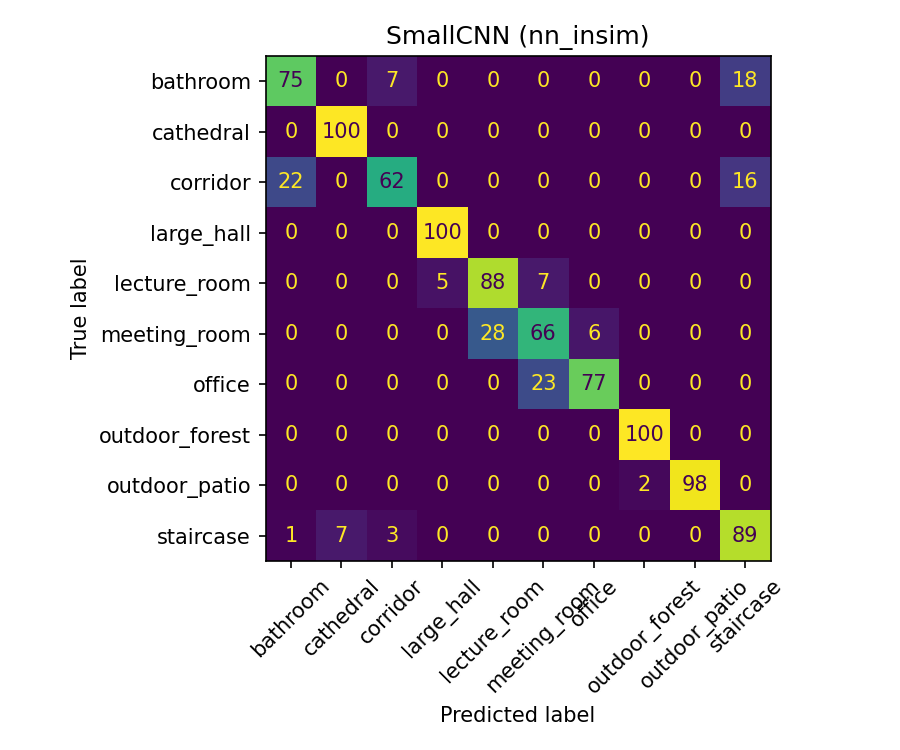
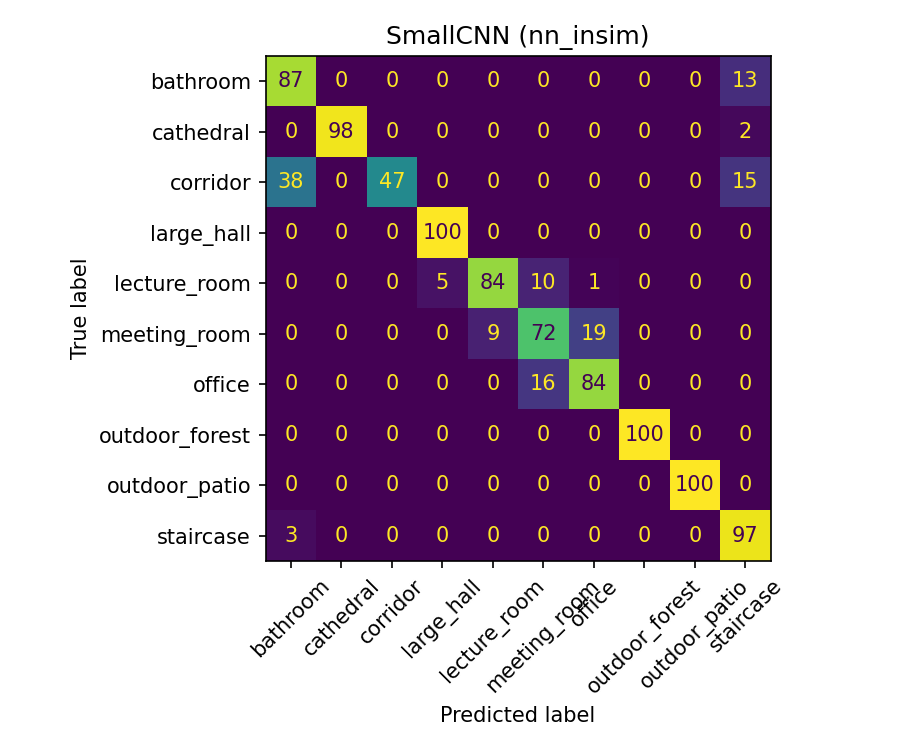
results for smallNN

diff --git a/notes.md b/notes.md
@@ -329,3 +329,44 @@ Conclusion for the report: 18 rooms is the practical ceiling of publicly
 available, functionally-labelled, full-dynamic-range RIR data. This is a
 structural property of the field (people record one room densely, not many rooms
 each once), not a gap in the search. State it as a declared limitation.
+
+### Results with v2 materials + 500/class, multi-seed CNN (22 July '26)
+
+Regenerated the synthetic set with v2 materials (frequency-dependent per-surface
+absorption, receiver_radius 0.8, gas_tank dropped, 10 classes x 500 rooms) and
+re-ran everything. CNN now with cosine LR decay and 5 seeds. This is the run the
+report is built on.
+
+Classical (5-fold in-sim, sim2real on the 17 overlap rooms):
+    eval                    RF     SVM    kNN    XGB
+    insim_5fold (10 cls)    0.82   0.80   0.80   0.81
+    insim_overlap (4 cls)   0.76   0.78   0.75   0.76
+    sim2real fine           0.39   0.33   0.39   0.34
+    sim2real coarse         0.79   0.73   0.75   0.72
+    sim2real coarse f1      0.70   0.64   0.67   0.62
+
+CNN (mean +/- std over seeds 42-46):
+    nn_insim (10 cls)       0.865 +/- 0.005
+    nn_insim_overlap (4)    0.854 +/- 0.009
+    nn_sim2real fine        0.328 +/- 0.023   (f1 0.27)
+    nn_sim2real coarse      0.621 +/- 0.028   (f1 0.42)
+
+Reading, now solid (multi-seed, not a lucky draw):
+  1. The CNN learns the synthetic set best of all (in-sim 0.85-0.87 vs classical
+     0.76-0.82) but transfers worst. Drop in-sim_overlap -> sim2real fine: CNN
+     0.85 -> 0.33 = 0.53, RF 0.76 -> 0.39 = 0.37. More capacity, more room to fit
+     the simulator instead of the physics. Central hypothesis confirmed.
+  2. The v2 realistic materials helped the physical features and NOT the net:
+     RF coarse 0.70 -> 0.79 between v1 and v2 materials, CNN coarse 0.72 -> 0.62.
+     Making the sim more physical rewards the model that reads physics.
+  3. The knockout is the coarse f1: CNN 0.42 vs RF 0.70. The CNN's acc-f1 gap
+     (0.62 vs 0.42) means it collapses onto the majority archetype under domain
+     shift. The majority-class baseline (small_furnished = 10 of 17 rooms) is
+     0.59, so CNN coarse accuracy 0.62 barely clears "always guess the biggest
+     class", while RF at 0.79 genuinely separates the archetypes.
+
+Caveats for the writeup (do not drop): 17 real overlap rooms / 67 RIRs, so the
+fine numbers are noisy and a single real test distribution is all we have. But
+the coarse gap (CNN 0.62 vs classical mean ~0.75) is wider than the seed std, so
+it holds. Not claiming the net is bad, claiming it is less robust to sim-to-real
+and less interpretable, which is exactly the thesis.
